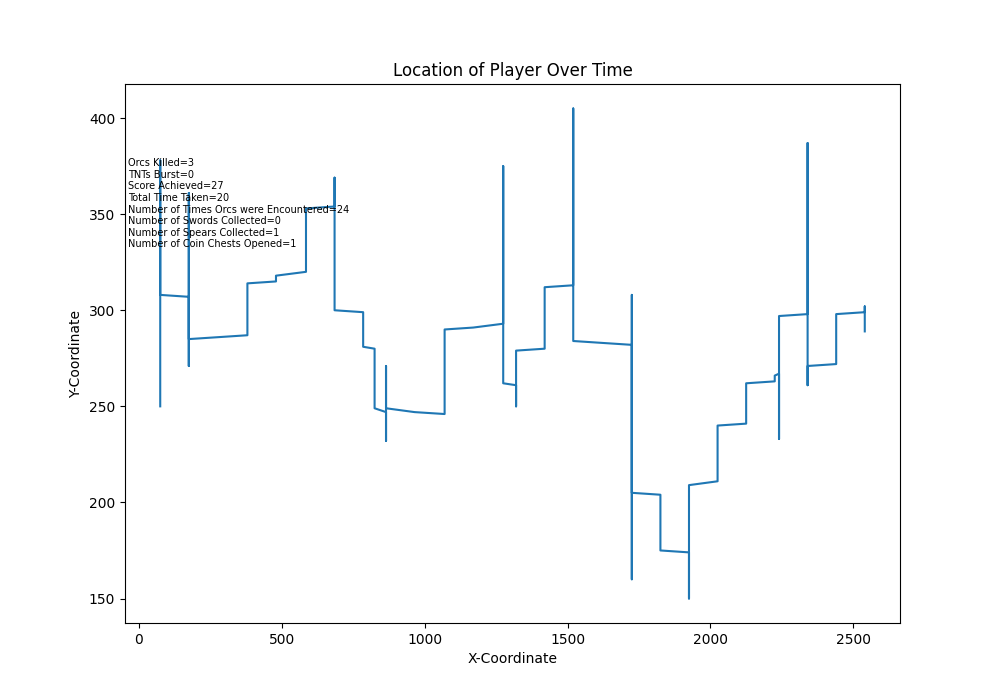
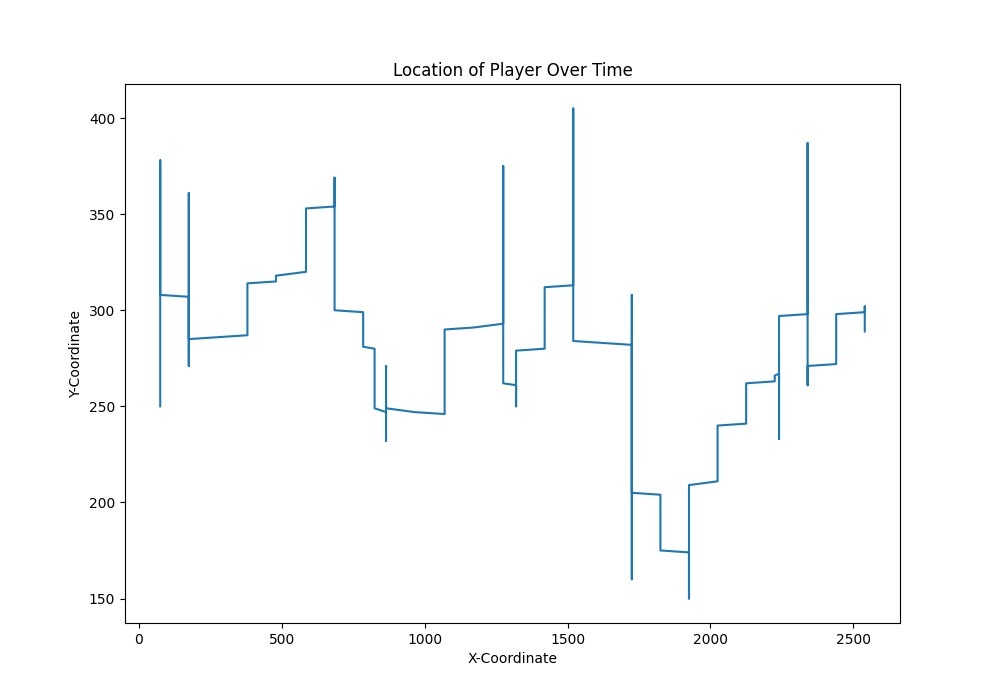
Python Done

Changed region(s): [[0.124, 0.21, 0.31, 0.36]]

diff --git a/Game/src/main/java/com/example/game/analyzeStats.py b/Game/src/main/java/com/example/game/analyzeStats.py
@@ -46,29 +46,62 @@ textstr = '\n'.join((
     ))
 xmin, xmax = plt.xlim()
 ymin, ymax = plt.ylim()
-plt.text(xmin+10, ymax-85, textstr, fontsize = 7)
+# plt.text(xmin+10, ymax-85, textstr, fontsize = 7)
 plt.savefig(os.path.join('src\main\java\com\example\game', 'point.png'))
 
 ###########################################
 
-from PIL import Image, ImageDraw
+# from PIL import Image, ImageDraw
 
-image_path_output = 'src\main\java\com\example\game\/'
-image_name_output = 'stats.jpg'
+# image_path_output = 'src\main\java\com\example\game\/'
+# image_name_output = 'stats.jpg'
 
-mode = 'RGB'
-size = (640, 480)
-color = (73, 109, 137)
+# mode = 'RGB'
+# size = (640, 480)
+# color = (73, 109, 137)
 
-im = Image.new(mode, size, color)
+# im = Image.new(mode, size, color)
 
-im.save(image_path_output + image_name_output )
+# im.save(image_path_output + image_name_output )
 
-im = Image.open(image_path_output + image_name_output)
-position = (50, 50)
-message = textstr
+# im = Image.open(image_path_output + image_name_output)
+# position = (50, 50)
+# message = textstr
 
-draw = ImageDraw.Draw(im)
-draw.text(position, message)
-image_name_output = 'stats.jpg'
-im.save(image_path_output + image_name_output)
+# draw = ImageDraw.Draw(im)
+# draw.text(position, message)
+# image_name_output = 'stats.jpg'
+# im.save(image_path_output + image_name_output)
+
+#####
+
+plt.title("Orc Encounter Statistics")
+plt.xlabel("")
+plt.ylabel("")
+sizes = np.array([int(lsdata[0]), int(lsdata[4])-int(lsdata[0])])
+labels = [f'Orcs Killed {sizes[0]*100/(sizes[1]+sizes[0])}%', f'Orcs Avoided {sizes[1]*100/(sizes[1]+sizes[0])}%']
+colors = ['yellowgreen', 'gold']
+patches, texts = plt.pie(sizes, colors=colors, startangle=90)
+plt.legend(patches, labels, loc="best")
+plt.savefig(os.path.join('src\main\java\com\example\game', 'orcproportion.png'))
+
+plt.title("Weapon Statistics")
+plt.xlabel("")
+plt.ylabel("")
+sizes = np.array([int(lsdata[5]), int(lsdata[6])])
+labels = [f'Swords Collected {sizes[0]*100/(sizes[1]+sizes[0])}%', f'Spears Collected {sizes[1]*100/(sizes[1]+sizes[0])}%']
+colors = ['yellowgreen', 'gold']
+patches, texts = plt.pie(sizes, colors=colors, startangle=90)
+plt.legend(patches, labels, loc="best")
+plt.savefig(os.path.join('src\main\java\com\example\game', 'weaponProportion.png'))
+
+plt.title("Game Object Encounter Statistics")
+plt.xlabel("")
+plt.ylabel("")
+sizes = np.array([int(lsdata[1]), int(lsdata[4]), int(lsdata[5])+int(lsdata[6]), int(lsdata[7])])
+labels = [f'TNTs Burst {sizes[0]*100/(sum(sizes))}%', f'Orcs Encountered {sizes[1]*100/(sum(sizes))}%',
+          f'Weapon Chests Opened {sizes[2]*100/(sum(sizes))}%', f'Coin Chests Opened {sizes[3]*100/(sum(sizes))}%']
+colors = ['yellowgreen', 'gold', 'orange', 'red']
+patches, texts = plt.pie(sizes, colors=colors, startangle=90)
+plt.legend(patches, labels, loc="best")
+plt.savefig(os.path.join('src\main\java\com\example\game', 'objectProportion.png'))
